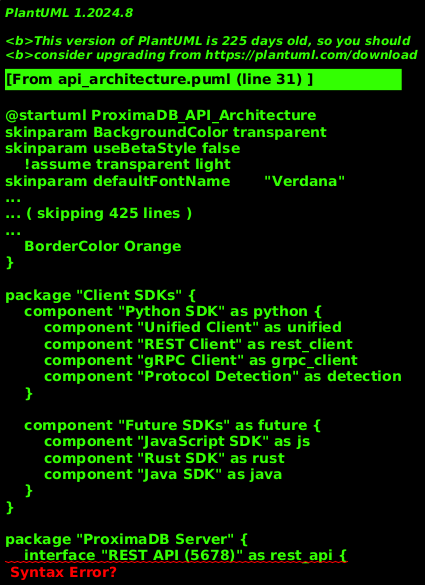
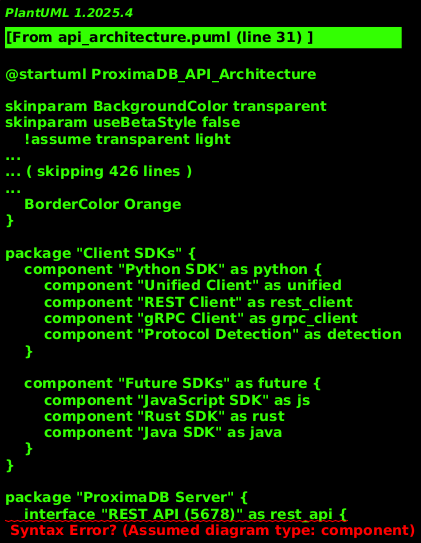
docs: generate updated PlantUML and Mermaid diagram images with IndexConfig architecture
- Generated core-classes-simple.png from updated PlantUML diagram
- Generated architecture-overview.png from updated Mermaid diagram
- Generated indexconfig-flow.png showing IndexConfig flow sequence
- Updated README.adoc with new architecture diagrams and IndexConfig documentation
- Added IndexConfig flow section explaining per-collection configuration
- Documented architectural correction moving IndexConfig from storage to AXIS
- Used latest PlantUML JAR (v1.2025.4) for improved compatibility
- Fixed Mermaid CLI Chrome integration for WSL environment
- All diagrams now properly generated from .mmd and .puml source files

diff --git a/misc/docs/proximadb_architecture_uml.md b/misc/docs/proximadb_architecture_uml.md
@@ -2,6 +2,10 @@
 
 ## 1. High-Level Package Diagram (Mermaid)
 
+![Architecture Overview](../../docs/diagrams/images/architecture-overview.png)
+
+### Updated Architecture Diagram
+
 ```mermaid
 graph TB
     subgraph "API Layer"
@@ -50,6 +54,10 @@ graph TB
 ```
 
 ## 2. Core Classes Diagram (PlantUML)
+
+![Core Classes](../../docs/diagrams/images/core-classes-simple.png)
+
+### Core Classes Implementation
 
 ```plantuml
 @startuml
@@ -299,6 +307,10 @@ classDiagram
 ```
 
 ## 4. IndexConfig Flow Diagram (Mermaid)
+
+![IndexConfig Flow](../../docs/diagrams/images/indexconfig-flow.png)
+
+### IndexConfig Flow Implementation
 
 ```mermaid
 sequenceDiagram
